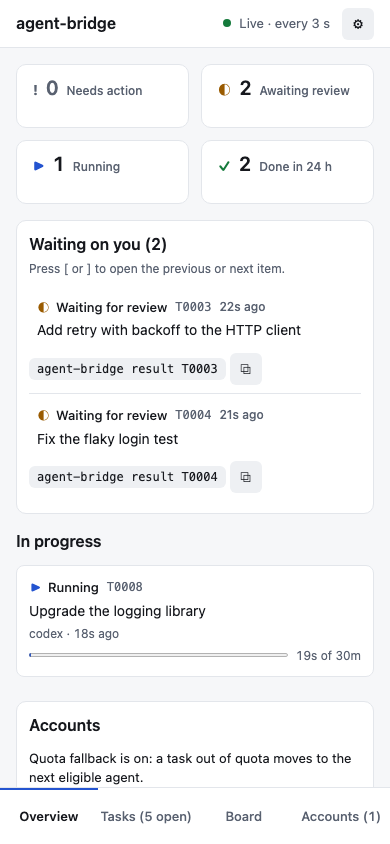
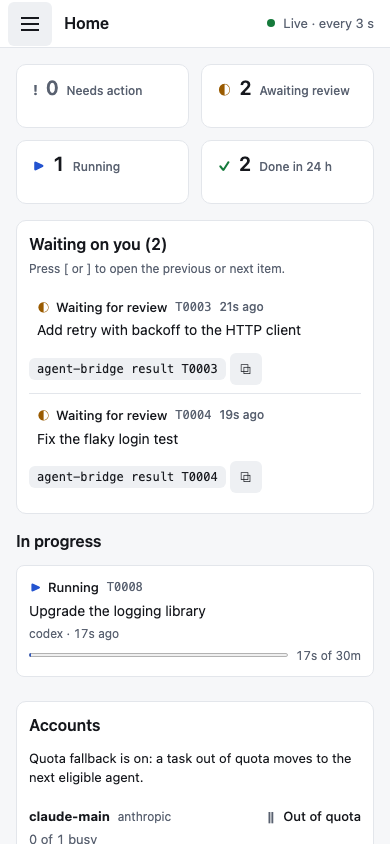
describe the sidebar shell in the docs and refresh the dashboard images
README, CHANGELOG and the design notes still described the segmented view control, the settings menu and the phone bottom bar, which the sidebar and the Settings view replaced; the images and the demo were taken before that change.

diff --git a/docs/design/web-dashboard.md b/docs/design/web-dashboard.md
@@ -37,27 +37,36 @@ Measured with the seeded sandbox used for the README screenshots (one project, e
 `DESIGN.md` and renderer source) was read for patterns, not copied. Taken as principles: truthful
 state before polish; one status slot with a glyph, so color is never the only signal; borders as
 structure rather than decoration; color only when it means something; sentence case; compact but
-44 px touch targets; detail in an inspector instead of new pages. Not taken: its sidebar shell
-(this dashboard usually shows one or two projects), its tokens, names and components, and any
-action buttons (this dashboard is view-only).
+44 px touch targets; detail in an inspector instead of new pages. A sidebar with the project list
+was added later, on evidence rather than from the reference: real use showed about 40 projects on
+one machine, so the page needed a project scope that a select could not offer. Not taken: its
+tokens, names and components, and any action buttons (this dashboard is view-only).
 
 ## Information architecture
 
 | View | Answers | Contents |
 |---|---|---|
-| Overview (default) | Questions 1 to 3 | Summary tiles, "Waiting on you" queue with copyable commands, In progress cards with time used, account summary with the quota-fallback line, projects |
+| Home (default) | Questions 1 to 3 | Summary tiles, "Waiting on you" queue with copyable commands, In progress cards with time used, account summary with the quota-fallback line, projects |
 | Tasks | Question 4 | Search, status tabs, the task table (phone: compact rows) |
 | Board | Question 4 by stage | Lanes: Needs action, In review, Running, Queued, plus Finished |
 | Accounts | Question 3 in detail | Fallback policy per project, one card per account (state, quota windows, slots, agents), recent automatic switches |
+| Settings | - | Language, theme, the CLI name and the keyboard shortcuts |
+
+The sidebar holds the product name, these views and the project list: All projects, then each
+project with the number of tasks that need a person, a filter box once there are more than eight,
+and "Show all". Choosing a project scopes every view and the page title. Below 1024 px the sidebar
+is off-canvas, opened from the menu button.
 
 The task drawer opens from every view (`t=` in the URL) and holds status, the next step, the
 lifecycle, checks, changed files, reviews and the live log. Old links keep working: `view=projects`
-opens the Overview at the projects section.
+opens Home at the projects section.
 
 Progressive disclosure: project and worktree filters appear only with more than one project,
 "Group by worktree" only when a project has worktrees, Location and Agent columns only when they
 differ between rows, the technical record of a task only when expanded in the drawer, and language
-and theme behind the settings button.
+and theme in the Settings view. From 1000 px the task table has a fixed layout: objective, location
+and agent ellipsize (full value in the title), status and next step wrap; below 1280 px the
+objective takes two lines and Next step shows only the copy button.
 
 ## Tokens
 
@@ -88,7 +97,7 @@ audit measures it again on the rendered page.
 Type: system UI font; 12 / 13 / 14 (body) / 16 (section titles) / 20 px (stat values); weight 500
 for controls, 600 for headings and selected items; tabular figures for counts and times. Spacing:
 4, 8, 12, 16, 24, 32 px. Radius: 6 px for controls, 10 px for panels and cards. Shadows only on the
-drawer and the settings menu. Motion: color transitions under 150 ms, none with
+drawer and the phone sidebar. Motion: color transitions under 150 ms, none with
 `prefers-reduced-motion`.
 
 ## Components
@@ -98,7 +107,7 @@ drawer and the settings menu. Motion: color transitions under 150 ms, none with
   glyph is `aria-hidden`; the label carries the meaning.
 - **Quiet button**: `--surface-2` fill, no border, 32 px (44 px on touch screens). Pressed state:
   surface fill, strong border, weight 600.
-- **Segmented control** for the views; a fixed bottom bar on phones.
+- **Sidebar navigation** for the views and the project scope; an off-canvas sheet with a menu button below 1024 px.
 - **Tabs** for status filters: text with a 2 px accent underline on the selected one.
 - **Panel**: surface, 1 px border, 10 px radius. No card inside a card.
 - **Command**: monospace on `--surface-2` with a copy button; copying falls back to selecting the text.
@@ -113,7 +122,7 @@ drawer and the settings menu. Motion: color transitions under 150 ms, none with
 - Every control has an accessible name in English and Vietnamese; icon-only controls use
   `aria-label`.
 - Visible focus: a 2 px accent outline on every focusable element.
-- Keyboard: `[` and `]` step through the queue, Escape closes the drawer and the settings menu and
+- Keyboard: `[` and `]` step through the queue, Escape closes the drawer and the phone sidebar and
   returns focus.
 - Touch: 44 px targets on coarse pointers; no horizontal page scroll at 320 px.
 - Live updates: one polite announcement when the number of tasks needing action changes.

diff --git a/CHANGELOG.md b/CHANGELOG.md
@@ -50,7 +50,7 @@ and this project adheres to [Semantic Versioning](https://semver.org/spec/v2.0.0
   meaningful progress events on stderr.
 
 ### Changed
-- Web dashboard redesign. An Overview home answers what is waiting on you (with the command to copy), what is running (time used against the timeout) and whether your accounts have quota and free slots, with the quota-fallback policy in one line. A new Accounts view shows one card per account (state, each quota window as a meter with its reset, slots in use, agents) plus each project's fallback policy and the recent automatic switches. The shell is one segmented view control with language and theme in a settings menu (a bottom bar on phones), status filters are tabs, columns and filters that would repeat one value are hidden, and colors, type and spacing come from one token set in both themes. `view=projects` links open the Overview. Design rules and the accessibility checks are in `docs/design/web-dashboard.md`.
+- Web dashboard redesign. An Overview home answers what is waiting on you (with the command to copy), what is running (time used against the timeout) and whether your accounts have quota and free slots, with the quota-fallback policy in one line. A new Accounts view shows one card per account (state, each quota window as a meter with its reset, slots in use, agents) plus each project's fallback policy and the recent automatic switches. A sidebar holds the views (Home, Tasks, Board, Accounts, Settings) and the project list that scopes every view (off-canvas behind a menu button below 1024 px); language and theme are in the Settings view, status filters are tabs, columns and filters that would repeat one value are hidden, the task table fits next to the sidebar without horizontal scrolling, and colors, type and spacing come from one token set in both themes. `view=projects` links open the Overview. Design rules and the accessibility checks are in `docs/design/web-dashboard.md`.
 - `/api/overview` gains `accounts` (state, quota windows, running and `max_concurrency`, agents and projects per account), `switches` (automatic quota switches of the last 7 days) and a `fallback` policy per project, read only from each project's database and config. Existing fields are unchanged.
 - Web dashboard reworked around what needs you. A summary row counts tasks that need you, wait for review, run, and finished in the last 24 hours; a queue lists the tasks waiting on you in the bridge's priority order with the command to copy (`[` and `]` step through them). A Board view groups tasks into Needs you, In review, Running (elapsed time against the timeout) and Queued lanes, with finished work folded underneath. Every state shows a symbol and a label, not color alone, and a polite live region announces when the number of tasks needing you changes.
 - Dashboard task drawer: status, a lifecycle stepper and the next step with its command come first; verification checks read as pass or fail; the agent's final JSON is shown as summary, notes, tests and files, with the raw text kept below; raw fields are folded under *Technical details*. The page behind the drawer is `inert` while it is open.

diff --git a/README.vi.md b/README.vi.md
@@ -558,8 +558,8 @@ mật sinh cho mỗi lần chạy, mọi request API đều cần token này; đ
 
 <img alt="Trang tổng quan của dashboard web: task đang chờ bạn kèm lệnh để sao chép, việc đang chạy với thời gian đã dùng, và năng lực của các tài khoản cùng chính sách chuyển dự phòng khi hết quota" src="docs/images/web-overview-light.png" width="900">
 
-Dashboard bao quát mọi dự án agent-bridge biết trên máy này cùng các git worktree của chúng, chia
-thành bốn view:
+Dashboard bao quát mọi dự án agent-bridge biết trên máy này cùng các git worktree của chúng. Thanh
+bên liệt kê các view và các dự án; chọn một dự án sẽ thu phạm vi mọi view về dự án đó. Các view:
 
 - **Tổng quan.** Những gì đang chờ bạn, theo thứ tự ưu tiên của bridge, mỗi mục có lệnh để sao
   chép (phím `[` và `]` mở mục trước hoặc sau); các task đang chạy với thời gian đã dùng so với
@@ -577,14 +577,14 @@ thành bốn view:
   trong URL nên mở lại được bằng link.
 
 Dashboard làm mới mỗi 3 giây; khi không kết nối được bridge, nó báo rõ và giữ dữ liệu cuối cùng
-trên màn hình. Theme sáng, tối hoặc theo hệ thống và tiếng Anh hoặc tiếng Việt nằm trong menu cài
-đặt; trên điện thoại các view chuyển xuống thanh dưới cùng và mỗi task là một dòng gọn. Trạng thái
+trên màn hình. Theme sáng, tối hoặc theo hệ thống và tiếng Anh hoặc tiếng Việt nằm trong view Cài
+đặt; trên điện thoại thanh bên mở từ nút menu và mỗi task là một dòng gọn. Trạng thái
 luôn có ký hiệu và nhãn, không chỉ dựa vào màu. Quy tắc thiết kế và các bước kiểm tra accessibility
 nằm trong [docs/design/web-dashboard.md](docs/design/web-dashboard.md) (chỉ có bản tiếng Anh).
 
 <img alt="View Tài khoản với theme tối: chuyển dự phòng đang bật, cửa sổ quota của từng tài khoản và một lần chuyển tự động" src="docs/images/web-accounts-dark.png" width="900">
 
-<img alt="Ngăn chi tiết task với thanh vòng đời, việc tiếp theo và tóm tắt dễ đọc" src="docs/images/web-drawer-light.png" width="640"> <img alt="Trang tổng quan trên điện thoại với thanh điều hướng ở dưới cùng" src="docs/images/web-mobile-light.png" width="240">
+<img alt="Ngăn chi tiết task với thanh vòng đời, việc tiếp theo và tóm tắt dễ đọc" src="docs/images/web-drawer-light.png" width="640"> <img alt="Trang tổng quan trên điện thoại với nút menu" src="docs/images/web-mobile-light.png" width="240">
 
 Dashboard web chỉ đọc: nó mở từng `bridge.db` bằng SQLite `mode=ro`, chỉ đọc trạng thái và quota
 của tài khoản từ database đó và cấu hình dự án (không bao giờ gọi thử CLI hay đọc thư mục home

diff --git a/README.md b/README.md
@@ -558,10 +558,10 @@ token that every API request needs; do not share it.
 
 <img alt="Web dashboard overview: tasks waiting on you with the command to copy, work in progress with time used, and account capacity with the quota-fallback policy" src="docs/images/web-overview-light.png" width="900">
 
-It covers every project agent-bridge knows on this machine and their git worktrees, in four
-views:
+It covers every project agent-bridge knows on this machine and their git worktrees. A sidebar
+lists the views and the projects; choosing a project scopes every view. The views:
 
-- **Overview.** What is waiting on you, in the bridge's priority order, each with the command to
+- **Home.** What is waiting on you, in the bridge's priority order, each with the command to
   copy (`[` and `]` open the previous or next one); the tasks running now with time used against
   their timeout; every account with its state, busy slots and quota left; whether quota fallback
   is on; and the projects.
@@ -577,14 +577,14 @@ views:
   URL, so a link reopens it.
 
 It refreshes every 3 s and says when the bridge cannot be reached, keeping the last data on screen.
-Light, dark or the system theme and English or Vietnamese sit in the settings menu; on a phone the
-views move to a bottom bar and each task becomes a compact row. A state is shown by a symbol and a
+Light, dark or the system theme and English or Vietnamese sit in the Settings view; on a phone the
+sidebar opens from the menu button and each task becomes a compact row. A state is shown by a symbol and a
 label, never by color alone. The design rules and the accessibility checks are in
 [docs/design/web-dashboard.md](docs/design/web-dashboard.md).
 
 <img alt="Accounts view in the dark theme: quota fallback on, quota windows per account, and an automatic switch" src="docs/images/web-accounts-dark.png" width="900">
 
-<img alt="Task drawer with the lifecycle stepper, next step and readable final summary" src="docs/images/web-drawer-light.png" width="640"> <img alt="Phone layout of the overview with the bottom navigation bar" src="docs/images/web-mobile-light.png" width="240">
+<img alt="Task drawer with the lifecycle stepper, next step and readable final summary" src="docs/images/web-drawer-light.png" width="640"> <img alt="Phone layout of Home with the menu button" src="docs/images/web-mobile-light.png" width="240">
 
 The web dashboard is read-only: it opens each `bridge.db` with SQLite `mode=ro`, reads account
 state and quota only from that database and the project config (it never probes a CLI or reads an
